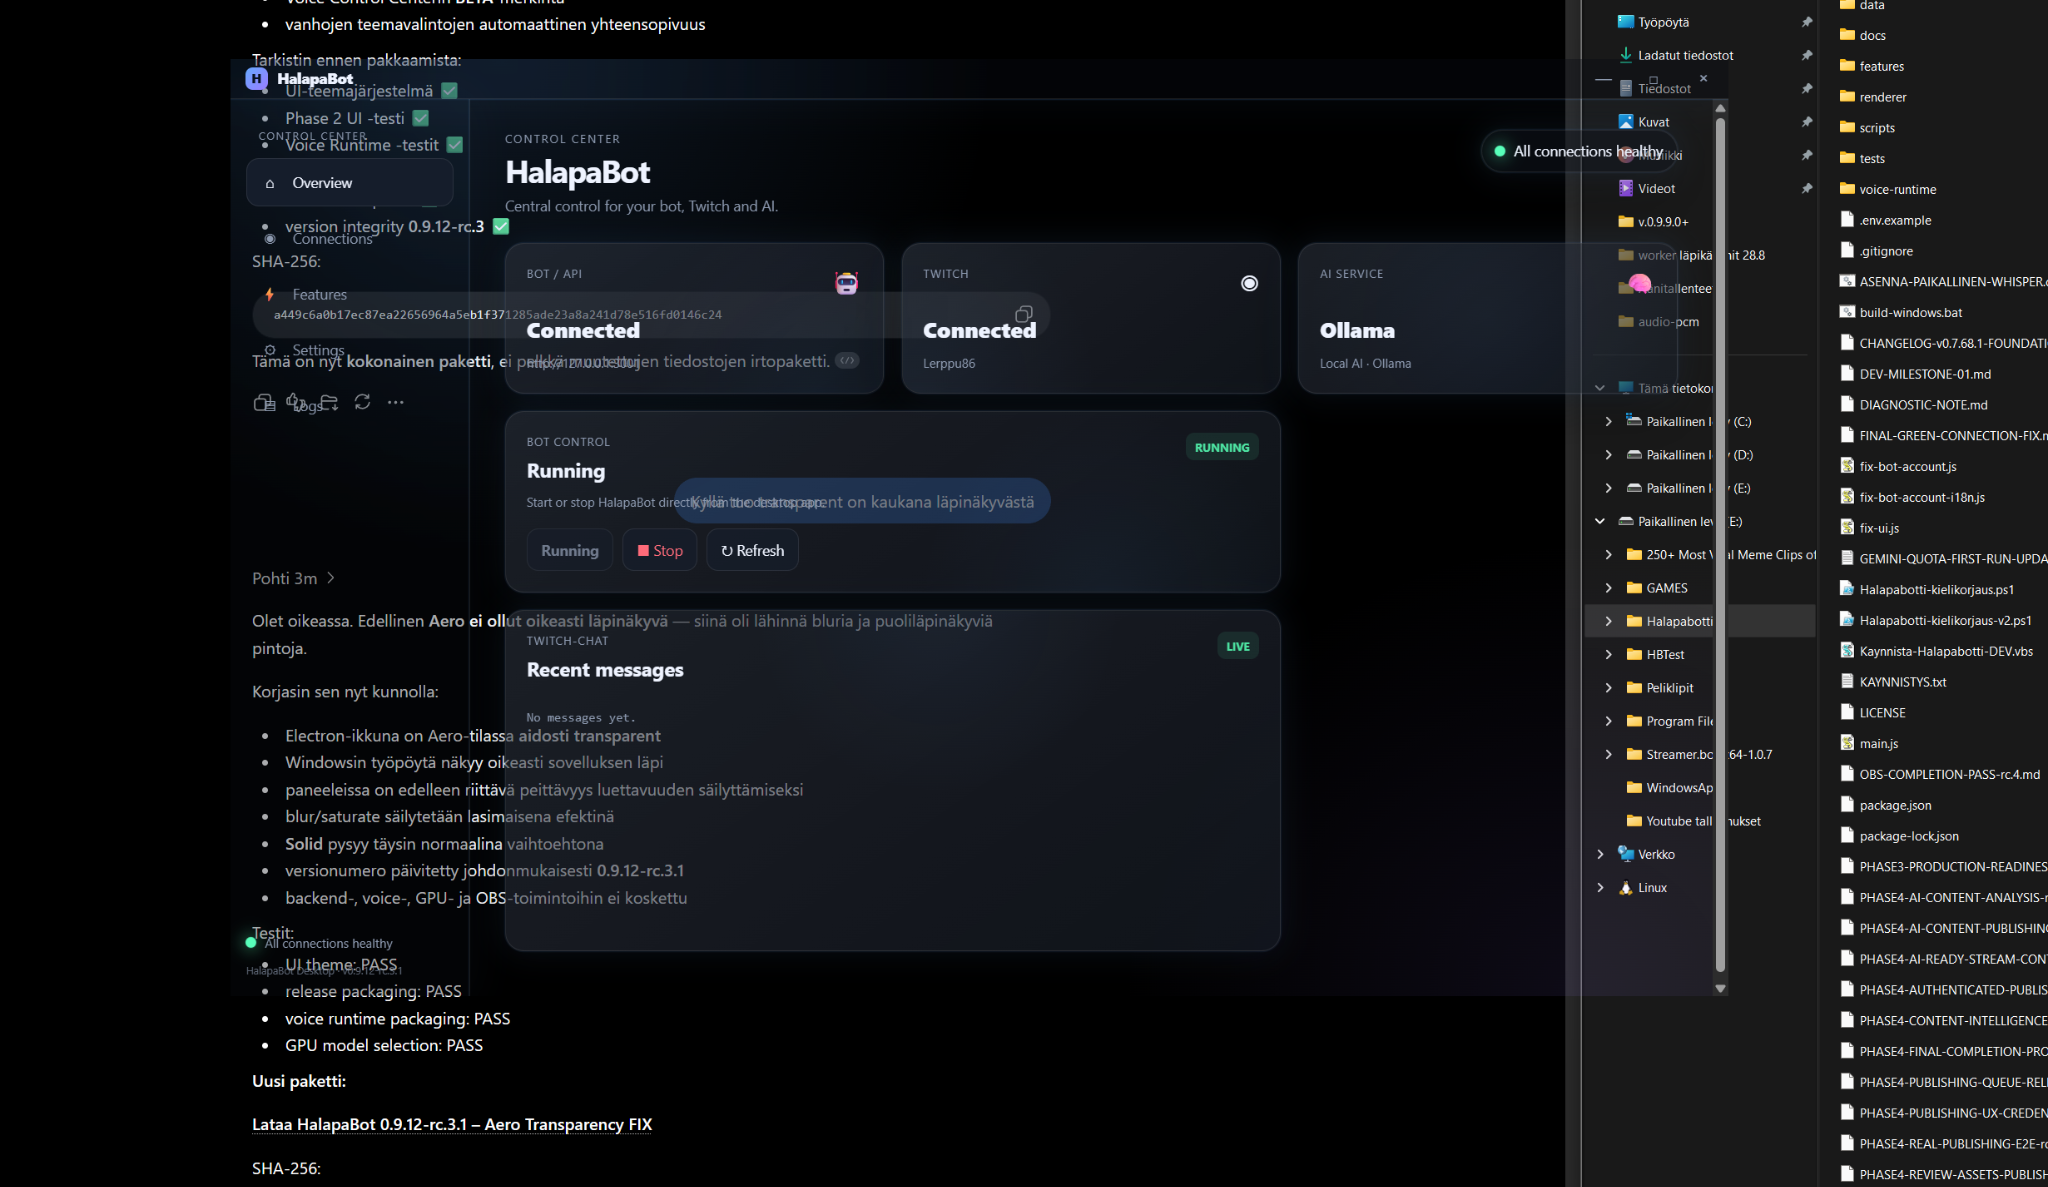
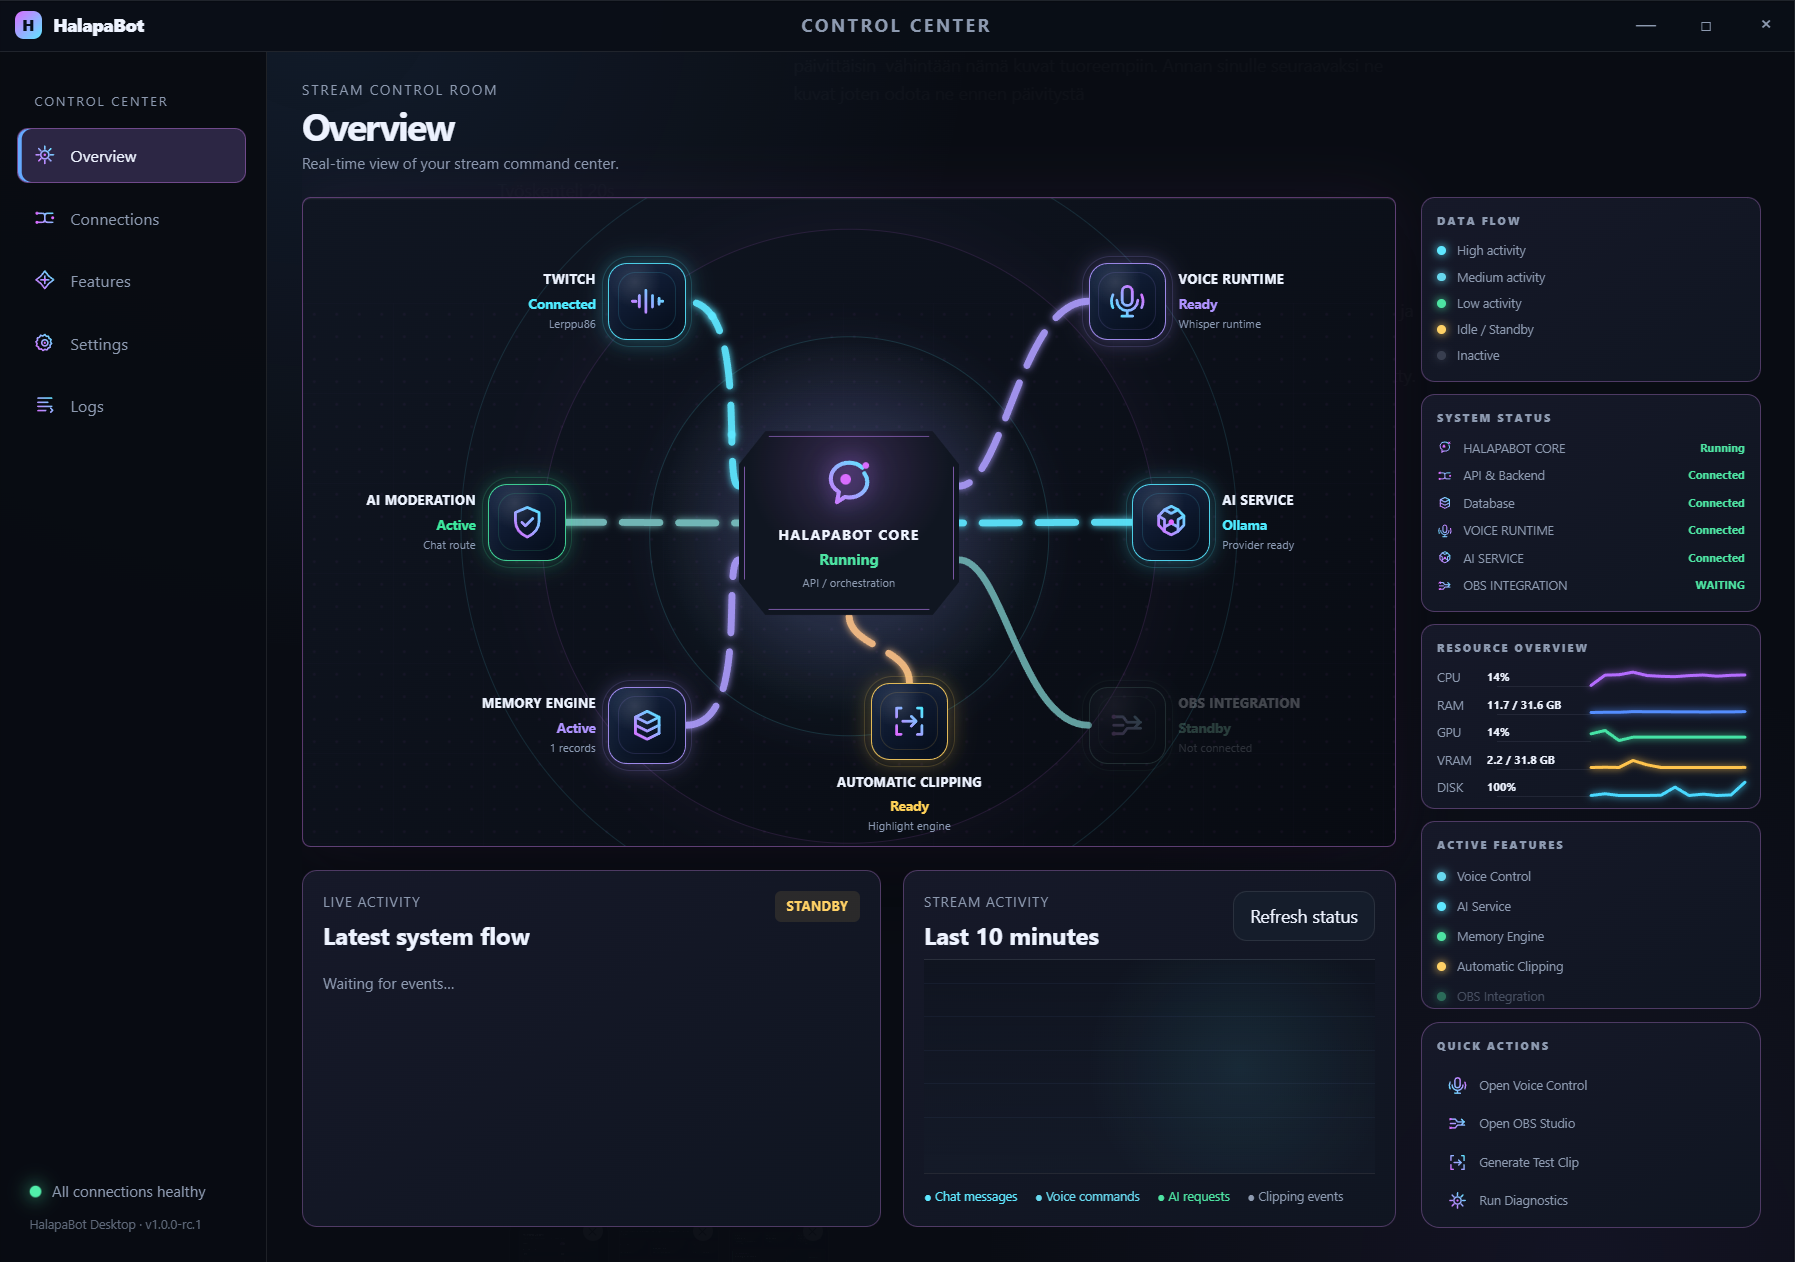
Add files via upload

diff --git a/guide.html b/guide.html
@@ -29,13 +29,13 @@
 <div class="content">
 <section id="setup"><h2>1. Setup</h2><p>HalapaBot is designed as a local desktop control center. Start by making sure the application can reach the services and devices you actually intend to use, then verify the runtime state before enabling automation.</p><div class="box note"><strong>Data first.</strong> If a connection, service or signal is not available to the application, it should not be treated as known stream context.</div><h3>Recommended order</h3><ol><li>Open the application and check the Overview.</li><li>Configure Twitch and other required connections.</li><li>Choose voice settings only if you plan to use Voice.</li><li>Configure OBS before enabling OBS-related workflows.</li><li>Review Memory, Moderation and Analytics according to your stream setup.</li></ol></section>
 <section id="connections"><h2>2. Connections</h2><p>Connections are part of the application's observable state. Keep them explicit and verify that the services you rely on are actually connected before expecting downstream workflows to use their data.</p><div class="two"><div class="card"><h4>Twitch</h4><p>Used for stream and chat context and related interaction workflows.</p></div><div class="card"><h4>AI services</h4><p>AI-assisted behavior depends on the configured provider/runtime and the context available to HalapaBot.</p></div></div></section>
-<section id="overview"><h2>3. Overview</h2><p>The Overview is the current Control Center surface. It places the system flow, live activity, resource state and quick actions in one view so you can establish what the application currently knows before changing a setting or expecting an automated action.</p><figure class="shot"><img src="assets/screenshots/control-center-current.png" alt="HalapaBot current Control Center overview"><figcaption>Current Control Center — system flow, status, resources and quick actions.</figcaption></figure><div class="two"><div class="card"><h4>System flow</h4><p>HalapaBot Core connects the visible Twitch, voice, moderation, AI, memory, OBS and clipping states.</p></div><div class="card"><h4>Runtime context</h4><p>Side panels keep system status, CPU/RAM/GPU/VRAM readings and available quick actions close to the main view.</p></div></div></section>
+<section id="overview"><h2>3. Overview</h2><p>The Overview is the current Control Center surface. It places the system flow, live activity, resource state and quick actions in one view so you can establish what the application currently knows before changing a setting or expecting an automated action.</p><figure class="shot"><img src="assets/screenshots/overview.png" alt="HalapaBot current Control Center overview"><figcaption>Current Control Center — system flow, status, resources and quick actions.</figcaption></figure><div class="two"><div class="card"><h4>System flow</h4><p>HalapaBot Core connects the visible Twitch, voice, moderation, AI, memory, OBS and clipping states.</p></div><div class="card"><h4>Runtime context</h4><p>Side panels keep system status, CPU/RAM/GPU/VRAM readings and available quick actions close to the main view.</p></div></div></section>
 <section id="voice"><h2>4. Voice Control Center</h2><p>Voice is configurable. The user chooses the microphone, language, Whisper model and execution mode instead of assuming one universal setup.</p><div class="box warning"><strong>BETA boundary:</strong> OBS-related voice command groups are explicitly treated as BETA in the current product evidence.</div><figure class="shot"><img src="assets/screenshots/voice.png" alt="HalapaBot Voice Control Center"><figcaption>Voice Control Center — local Whisper and listening controls.</figcaption></figure><h3>Command groups</h3><ul><li>Stream & Twitch</li><li>OBS & Automation — BETA</li><li>Audio</li><li>Moderation</li><li>HalapaBot</li><li>Memory</li><li>Assistant</li></ul></section>
-<section id="obs"><h2>5. OBS & Automatic Clipping</h2><p>Automatic clipping uses the OBS Replay Buffer. A candidate is not treated as a completed clip until OBS confirms the save.</p><figure class="shot"><img src="assets/screenshots/automatic-clipping-current.png" alt="HalapaBot Automatic Clipping"><figcaption>Automatic Clipping — candidate and Replay Buffer controls.</figcaption></figure><div class="two"><div class="card"><h4>Candidate controls</h4><p>Highlight threshold, cooldown, clip duration and pre/post-roll settings.</p></div><div class="card"><h4>Capture state</h4><p>Candidate and capture status remain distinct so a requested clip is not confused with a confirmed file.</p></div></div></section>
-<section id="memory"><h2>6. Memory</h2><p>Memory is about carrying useful context forward. The important distinction is between information that has actually been captured and information that would merely be plausible.</p><figure class="shot"><img src="assets/screenshots/memory-current.png" alt="HalapaBot Memory Manager"><figcaption>Memory Manager — local retention, memory types and captured context.</figcaption></figure></section>
-<section id="moderation"><h2>7. Moderation</h2><p>Moderation is a dedicated product area for protecting the conversation. It belongs to the same control center rather than existing as an unrelated side tool.</p><figure class="shot"><img src="assets/screenshots/moderation-current.png" alt="HalapaBot AI Moderation Center"><figcaption>AI Moderation Center — sensitivity, context awareness and human tone controls.</figcaption></figure></section>
-<section id="analytics"><h2>8. Analytics & runtime</h2><p>Analytics and history turn stream activity into something that can be reviewed after the moment has passed. Runtime tools add a second layer: they help you understand the resources available to the application before enabling heavier local AI work.</p><figure class="shot"><img src="assets/screenshots/analytics-current.png" alt="HalapaBot Analytics and AI Stream Mentor"><figcaption>Analytics &amp; AI Stream Mentor — review stream signals with performance awareness.</figcaption></figure><div class="two"><div class="card"><h4>Analytics & review</h4><p>Understand stream activity and available signals, then use captured context in later workflows.</p></div><div class="card"><h4>Performance awareness</h4><p>Review CPU, RAM, GPU and VRAM state and keep heavier AI work inside the limits you choose.</p></div></div></section>
-<section id="settings"><h2>9. Settings & appearance</h2><p>The application exposes visual and runtime preferences instead of hiding everything in an opaque configuration file.</p><figure class="shot"><img src="assets/screenshots/settings-current.png" alt="HalapaBot Settings, Local AI and runtime controls"><figcaption>Settings — processing path, capability scan, runtime monitor and resource-aware controls.</figcaption></figure><div class="two"><div class="card"><h4>AI processing path</h4><p>Choose a configured provider or Local AI / Ollama, select a model and test the connection.</p></div><div class="card"><h4>Runtime controls</h4><p>Configure themes, language, motion, alerts, performance overlay and AI workload protection.</p></div></div><p>Current product evidence includes UI language, bot chat language, several visual themes, Local AI settings and resource-aware runtime controls.</p></section>
+ <section id="obs"><h2>5. OBS & Automatic Clipping</h2><p>Automatic clipping uses the OBS Replay Buffer. A candidate is not treated as a completed clip until OBS confirms the save.</p><figure class="shot"><img src="assets/screenshots/automatic-clipping.png" alt="HalapaBot Automatic Clipping"><figcaption>Automatic Clipping — candidate and Replay Buffer controls.</figcaption></figure><div class="two"><div class="card"><h4>Candidate controls</h4><p>Highlight threshold, cooldown, clip duration and pre/post-roll settings.</p></div><div class="card"><h4>Capture state</h4><p>Candidate and capture status remain distinct so a requested clip is not confused with a confirmed file.</p></div></div></section>
+ <section id="memory"><h2>6. Memory</h2><p>Memory is about carrying useful context forward. The important distinction is between information that has actually been captured and information that would merely be plausible.</p><figure class="shot"><img src="assets/screenshots/overview-runtime.png" alt="HalapaBot Memory Manager"><figcaption>Memory Manager — local retention, memory types and captured context.</figcaption></figure></section>
+ <section id="moderation"><h2>7. Moderation</h2><p>Moderation is a dedicated product area for protecting the conversation. It belongs to the same control center rather than existing as an unrelated side tool.</p><figure class="shot"><img src="assets/screenshots/diagnostics.png" alt="HalapaBot AI Moderation Center"><figcaption>AI Moderation Center — sensitivity, context awareness and human tone controls.</figcaption></figure></section>
+ <section id="analytics"><h2>8. Analytics & runtime</h2><p>Analytics and history turn stream activity into something that can be reviewed after the moment has passed. Runtime tools add a second layer: they help you understand the resources available to the application before enabling heavier local AI work.</p><figure class="shot"><img src="assets/screenshots/twitch-result.png" alt="HalapaBot Analytics and AI Stream Mentor"><figcaption>Analytics &amp; AI Stream Mentor — review stream signals with performance awareness.</figcaption></figure><div class="two"><div class="card"><h4>Analytics & review</h4><p>Understand stream activity and available signals, then use captured context in later workflows.</p></div><div class="card"><h4>Performance awareness</h4><p>Review CPU, RAM, GPU and VRAM state and keep heavier AI work inside the limits you choose.</p></div></div></section>
+ <section id="settings"><h2>9. Settings & appearance</h2><p>The application exposes visual and runtime preferences instead of hiding everything in an opaque configuration file.</p><figure class="shot"><img src="assets/screenshots/settings.png" alt="HalapaBot Settings, Local AI and runtime controls"><figcaption>Settings — processing path, capability scan, runtime monitor and resource-aware controls.</figcaption></figure><div class="two"><div class="card"><h4>AI processing path</h4><p>Choose a configured provider or Local AI / Ollama, select a model and test the connection.</p></div><div class="card"><h4>Runtime controls</h4><p>Configure themes, language, motion, alerts, performance overlay and AI workload protection.</p></div></div><p>Current product evidence includes UI language, bot chat language, several visual themes, Local AI settings and resource-aware runtime controls.</p></section>
 <section id="troubleshooting"><h2>10. Troubleshooting</h2><h3>Start with the data path</h3><p>Before changing several things at once, check what HalapaBot actually sees: connection state, runtime state, device selection and the relevant feature's enabled state.</p><h3>Then check the boundary</h3><p>If an AI response seems wrong, first ask whether the underlying information was available to the application. Missing data is a different problem from a bad interpretation of known data.</p><div class="box note"><strong>Core diagnostic question:</strong> “Did HalapaBot actually know this?”</div><h3>Finally inspect diagnostics</h3><p>Use the application's diagnostics and technical views when a runtime issue remains unclear. Keep one change at a time so the cause of an improvement or regression remains visible.</p></section>
 </div></div>
 </main>

diff --git a/index.html b/index.html
@@ -317,20 +317,20 @@ h1{font-size:clamp(58px,7.2vw,102px);line-height:.91;letter-spacing:-.075em;marg
       <p>No invented mockups here. The tour uses the current desktop UI as evidence and keeps evolving or BETA areas clearly labelled.</p>
     </div>
     <div class="tour-grid">
-      <figure class="shot reveal"><img src="assets/screenshots/control-center-current.png" alt="HalapaBot current Control Center overview"><figcaption>Current Control Center — system flow, status, resources and quick actions.</figcaption></figure>
+      <figure class="shot reveal"><img src="assets/screenshots/overview.png" alt="HalapaBot current Control Center overview"><figcaption>Current Control Center — system flow, status, resources and quick actions.</figcaption></figure>
       <div class="tour-copy reveal"><h3>One place to see the state.</h3><p>The current Control Center brings stream controls, runtime information and connected capabilities into one desktop experience.</p><ul><li>Eight-part system flow around HalapaBot Core</li><li>Twitch, Voice Runtime, OBS and AI state</li><li>Resource overview and live activity</li><li>Quick actions for voice, OBS, diagnostics and clips</li></ul><a class="btn" href="guide.html">Open the complete guide →</a></div>
     </div>
     <div class="tour-grid" style="margin-top:22px">
       <div class="tour-copy reveal"><h3>Focused controls, visible state.</h3><p>Each major capability has its own management surface while the Control Center keeps the wider stream context visible.</p><ul><li>Enable or disable feature groups</li><li>Open dedicated management windows</li><li>Keep active, future and BETA areas distinct</li><li>Move from overview to action without losing context</li></ul></div>
-      <figure class="shot reveal"><img src="assets/screenshots/features-current.png" alt="HalapaBot current Features view"><figcaption>Features — focused control surfaces inside the desktop app.</figcaption></figure>
+      <figure class="shot reveal"><img src="assets/screenshots/command-groups.png" alt="HalapaBot current Features view"><figcaption>Features — focused control surfaces inside the desktop app.</figcaption></figure>
     </div>
     <div class="tour-gallery">
-      <figure class="shot reveal"><img src="assets/screenshots/settings-current.png" alt="HalapaBot Settings and Local AI view"><figcaption>Settings — Local AI, capability scanning and runtime controls.</figcaption></figure>
-      <figure class="shot reveal"><img src="assets/screenshots/automatic-clipping-current.png" alt="HalapaBot Automatic Clipping view"><figcaption>Automatic Clipping — configure candidates and OBS Replay Buffer capture.</figcaption></figure>
-      <figure class="shot reveal"><img src="assets/screenshots/moderation-current.png" alt="HalapaBot AI Moderation Center"><figcaption>AI Moderation Center — context-aware moderation with streamer control.</figcaption></figure>
-      <figure class="shot reveal"><img src="assets/screenshots/personality-current.png" alt="HalapaBot Personality Studio"><figcaption>Personality Studio — shape the bot's tone and behavior.</figcaption></figure>
-      <figure class="shot reveal"><img src="assets/screenshots/memory-current.png" alt="HalapaBot Memory Manager"><figcaption>Memory Manager — manage captured context and local retention.</figcaption></figure>
-      <figure class="shot reveal"><img src="assets/screenshots/analytics-current.png" alt="HalapaBot Analytics and AI Stream Mentor"><figcaption>Analytics &amp; AI Stream Mentor — review stream signals with performance awareness.</figcaption></figure>
+      <figure class="shot reveal"><img src="assets/screenshots/settings.png" alt="HalapaBot Settings and Local AI view"><figcaption>Settings — Local AI, capability scanning and runtime controls.</figcaption></figure>
+      <figure class="shot reveal"><img src="assets/screenshots/automatic-clipping.png" alt="HalapaBot Automatic Clipping view"><figcaption>Automatic Clipping — configure candidates and OBS Replay Buffer capture.</figcaption></figure>
+      <figure class="shot reveal"><img src="assets/screenshots/diagnostics.png" alt="HalapaBot AI Moderation Center"><figcaption>AI Moderation Center — context-aware moderation with streamer control.</figcaption></figure>
+      <figure class="shot reveal"><img src="assets/screenshots/technical-details.png" alt="HalapaBot Personality Studio"><figcaption>Personality Studio — shape the bot's tone and behavior.</figcaption></figure>
+      <figure class="shot reveal"><img src="assets/screenshots/overview-runtime.png" alt="HalapaBot Memory Manager"><figcaption>Memory Manager — manage captured context and local retention.</figcaption></figure>
+      <figure class="shot reveal"><img src="assets/screenshots/twitch-result.png" alt="HalapaBot Analytics and AI Stream Mentor"><figcaption>Analytics &amp; AI Stream Mentor — review stream signals with performance awareness.</figcaption></figure>
     </div>
   </div>
 </section>

diff --git a/README.md b/README.md
@@ -31,11 +31,16 @@ The landing page uses the H-only 3D hero visual with restrained glow, card motio
 ## Website update — 2026-09-02
 - Refreshed the app tour with a current Control Center capture from HalapaBot Desktop `1.0.0-rc.1`.
 - Added the supplied English-language UI captures for Control Center, Features, Automatic Clipping, AI Moderation, Settings, Personality, Memory and Analytics.
+- The supplied captures are also copied over the existing screenshot filenames used by the original site, keeping the image URLs stable for GitHub and Cloudflare uploads.
 - Updated the tour and guide copy to reflect System Flow, runtime resources, quick actions, Local AI / Ollama and performance-aware controls.
 - Added Open Graph metadata, Twitter card metadata, theme color and favicon metadata.
 - Corrected the mobile hero visual so it stays inside the viewport instead of creating horizontal overflow.
 - Changed the top-right call to action from `Download for Windows` to `Join the waitlist` while the Marketplace download is not live.
 - The supplied Voice capture was intentionally not used because it still shows Finnish device and language values; replace it with an English capture when available.
+
+## Deployment note
+
+Upload the complete folder contents, including `assets/screenshots/`. The text files alone are not enough: the website will show image alt text when the PNG assets are missing from the deployed `assets/screenshots/` path. The refreshed screenshots replace the existing files `overview.png`, `command-groups.png`, `settings.png`, `automatic-clipping.png`, `diagnostics.png`, `technical-details.png`, `overview-runtime.png` and `twitch-result.png`.
 
 
 ## Visual rebuild — 2026-08-31
